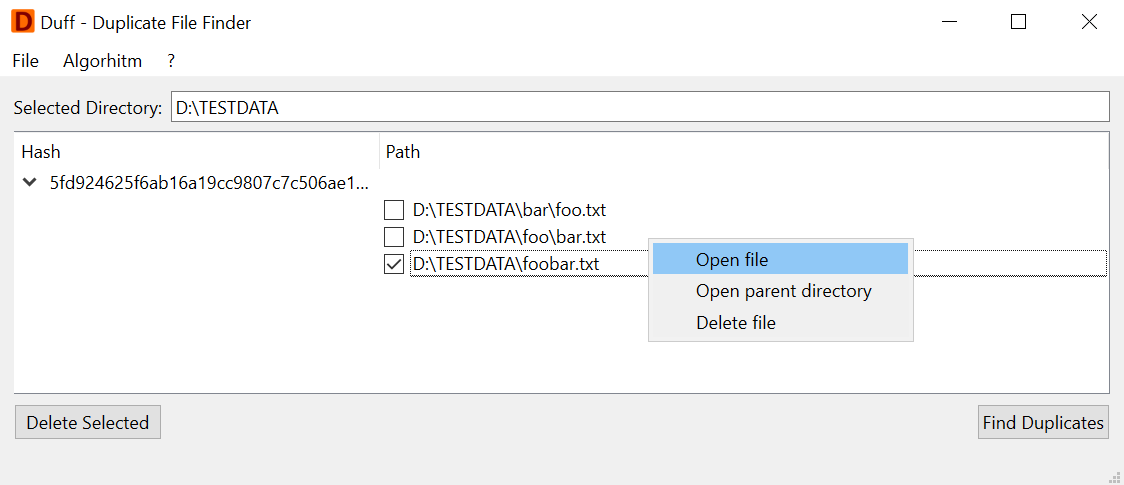
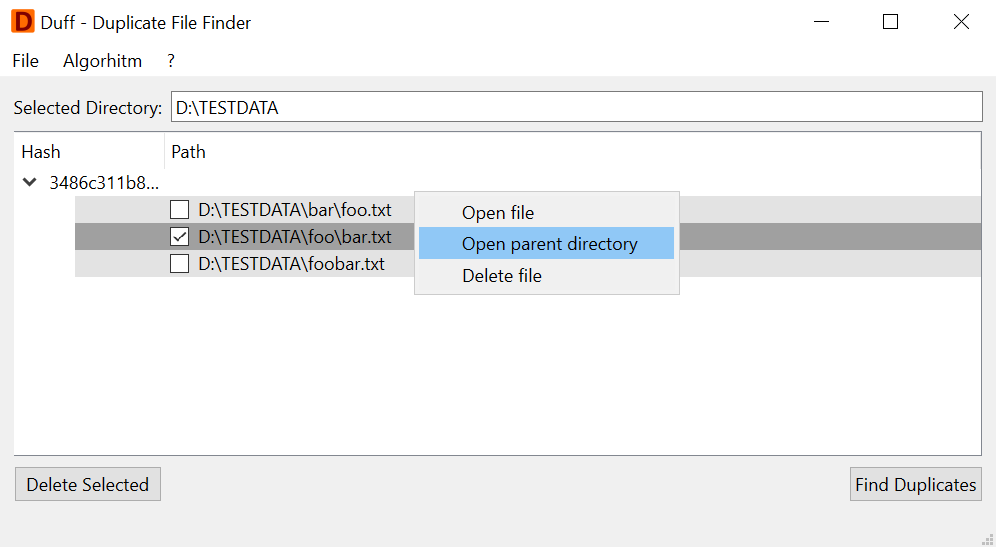
Mark every other file path gray to make the GUI more readable

diff --git a/ResultModel.cpp b/ResultModel.cpp
@@ -1,6 +1,9 @@
 #include "ResultModel.hpp"
 #include "ResultModel.hpp"
 
+#include <QApplication>
+#include <QColor>
+#include <QPalette>
 #include <QQueue>
 
 inline Node* indexToNode(const QModelIndex& index)
@@ -182,6 +185,15 @@ QVariant ResultModel::data(const QModelIndex& index, int role) const
 		if (hashCell || pathCell)
 		{
 			return item->data(Qt::DisplayRole);
+		}
+	}
+
+	if (role == Qt::BackgroundRole)
+	{
+		if (!topLevel)
+		{
+			static const QPalette& palette = QApplication::palette();
+			return index.row() % 2 ? palette.dark() : palette.midlight();
 		}
 	}
 

diff --git a/MainWindow.cpp b/MainWindow.cpp
@@ -59,7 +59,9 @@ MainWindow::MainWindow(QWidget* parent) :
 
 	if (args.count() == 2 && QDir().exists(args[1]))
 	{
-		populateTree(args[1]);
+		const QString& path = args[1];
+		ui->lineEditSelectedDirectory->setText(path);
+		populateTree(path);
 	}
 }
 
@@ -121,6 +123,7 @@ void MainWindow::onFinished()
 
 	ui->statusBar->showMessage(QTime::currentTime().toString() + " Finished processing.\n ");
 	ui->menuAlgorithm->setEnabled(true);
+	ui->treeViewResults->expandAll();
 }
 
 void MainWindow::deleteSelected()
